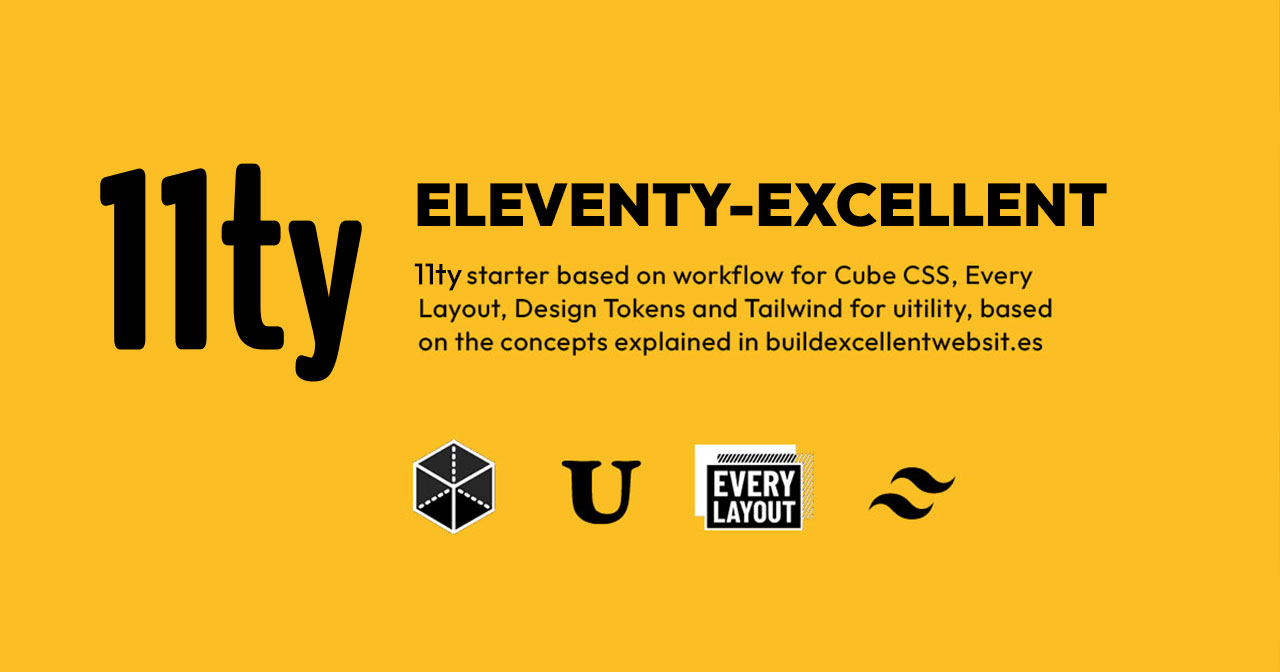
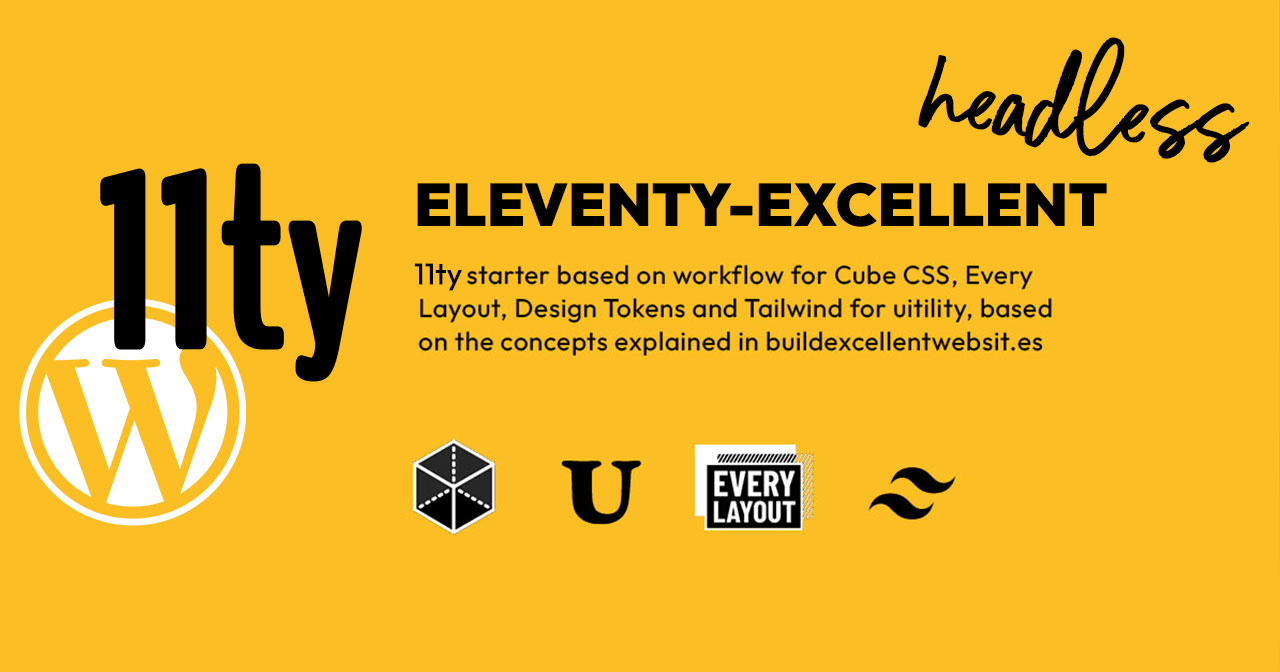
up to speed with the original

Changed region(s): [[0.0, 0.4375, 0.2188, 0.7812], [0.7188, 0.0625, 0.9688, 0.25]]

diff --git a/readme.md b/readme.md
@@ -1,6 +1,8 @@
 # Eleventy starter
 
-Opiniated but easy to use Eleventy starter, based on the workflow suggested by Andy Bell's buildexcellentwebsit.es.
+Opiniated but easy to use [Eleventy](https://www.11ty.dev/) starter, based on the workflow suggested by Andy Bell's buildexcellentwebsit.es.
+
+This starter is the same as the [native Eleventy starter](https://github.com/madrilene/eleventy-excellent), but it gets its blog posts from a WordPress site. For now, static sites are handled via markdown in Eleventy, the blog posts are fetched. I created a seperate repository because this project may develop in a different direction from now on.
 
 If you end up using this starter, feel free to send me a link, I'd love to see it!
 Also let me know if you miss any features. Currently in planning: automatically generated OpenGraph images (as fallback) and dark mode.
